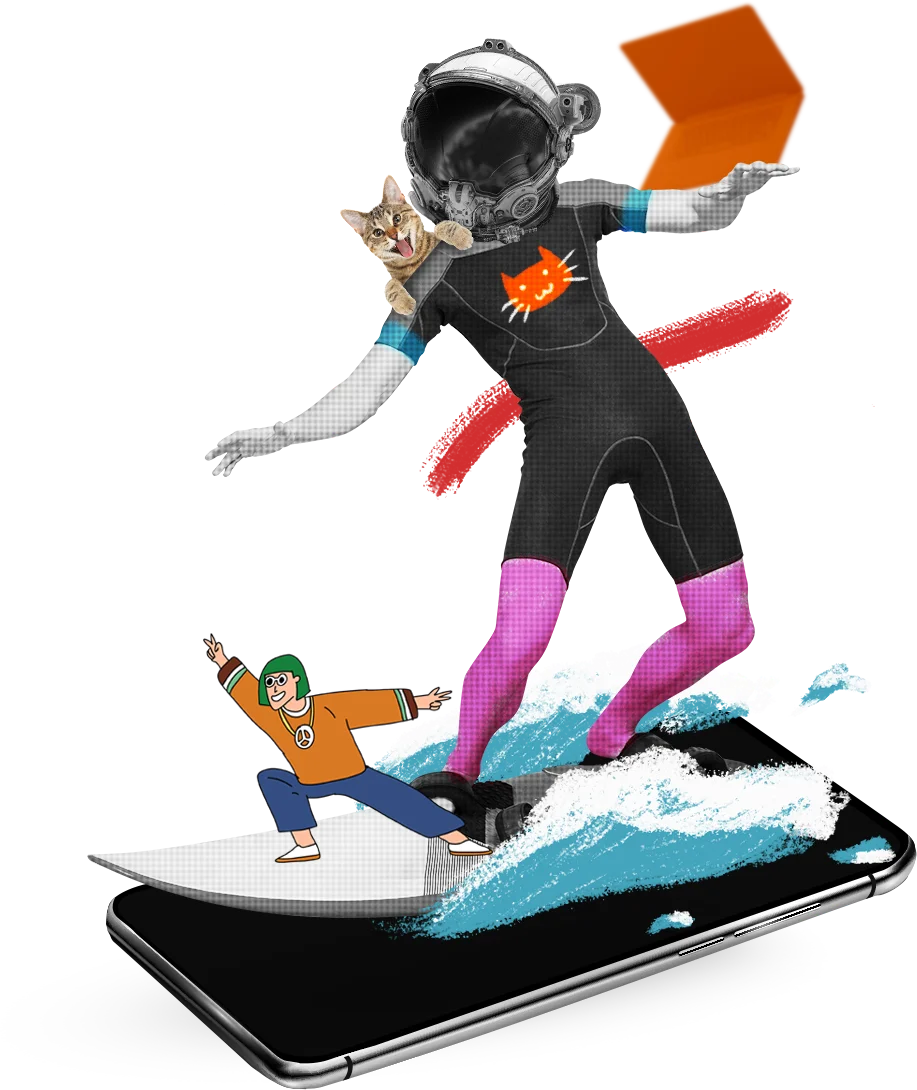
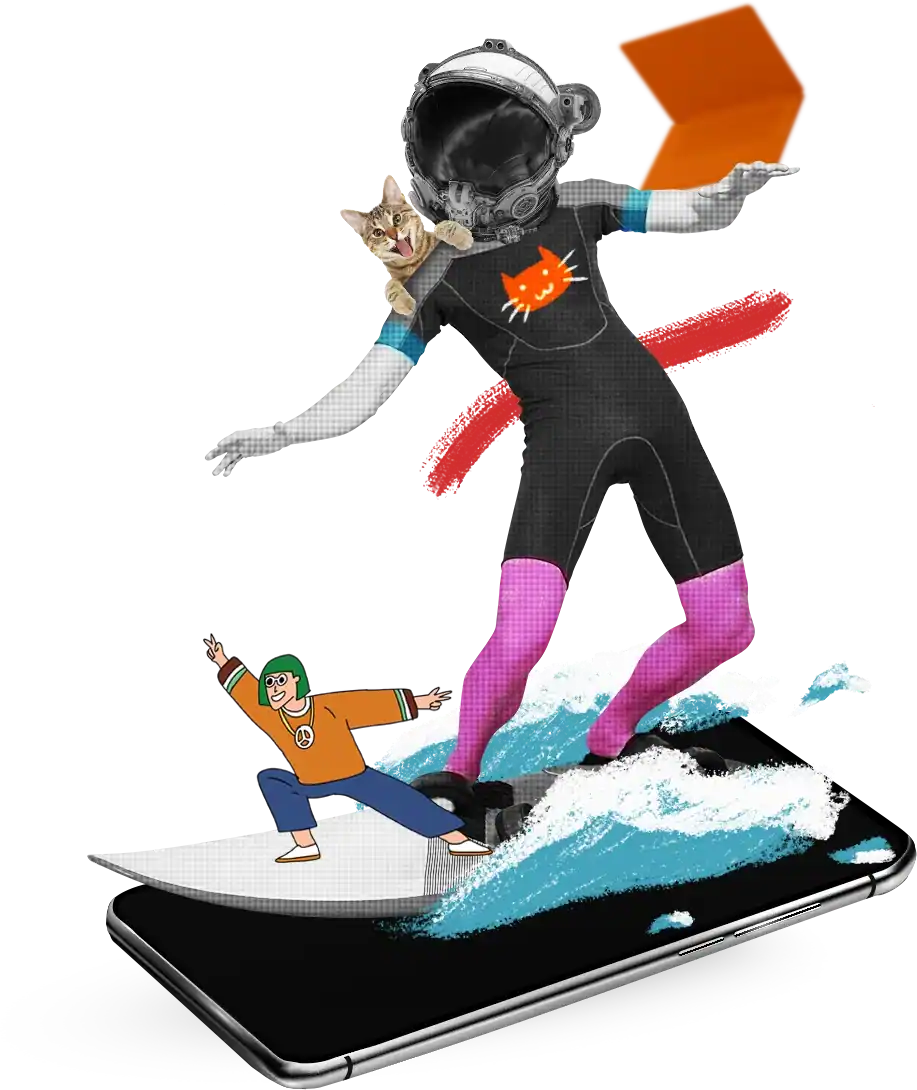
change image to webp

Changed region(s): [[0.5191, 0.7798, 0.5496, 0.811], [0.3053, 0.655, 0.3359, 0.6862]]

diff --git a/pages/index.js b/pages/index.js
@@ -34,7 +34,7 @@ export default function Home() {
         {/* Home Section */}
         <section className={styles.home} id="home"
           style={{
-            backgroundImage: "url(/img/BG_Yellow.png)",
+            backgroundImage: "url(/img/BG_Yellow.webp)",
             backgroundSize: "cover",
           }}>
           <div className={styles.heroBanner}>
@@ -66,7 +66,7 @@ export default function Home() {
 
             {/* Creative Content */}
             <figure className={styles.servicesCard}>
-              <img src="/img/windows_bar_green.png" alt="Creative Content" />
+              <img src="/img/windows_bar_green.webp" alt="Creative Content" />
               <figcaption className={styles.cardContent}>
                 <h2>Creative Content</h2>
                 <p>
@@ -80,7 +80,7 @@ export default function Home() {
 
             {/* Social Media Management */}
             <figure className={styles.servicesCard}>
-              <img src="/img/windows_bar_orange.png" alt="Social Media Management" />
+              <img src="/img/windows_bar_orange.webp" alt="Social Media Management" />
               <figcaption className={styles.cardContent}>
                 <h2>Social Media Management</h2>
                 <p>
@@ -98,7 +98,7 @@ export default function Home() {
 
             {/* Digital Campaign */}
             <figure className={styles.servicesCard}>
-              <img src="/img/windows_bar_red.png" alt="Digital Campaign" />
+              <img src="/img/windows_bar_red.webp" alt="Digital Campaign" />
               <figcaption className={styles.cardContent}>
                 <h2>Digital Campaign</h2>
                 <p>
@@ -112,7 +112,7 @@ export default function Home() {
 
             {/* Media Buying */}
             <figure className={styles.servicesCard}>
-              <img src="/img/windows_bar_blue.png" alt="Media Buying" />
+              <img src="/img/windows_bar_blue.webp" alt="Media Buying" />
               <figcaption className={styles.cardContent}>
                 <h2>Media Buying</h2>
                 <p>

diff --git a/components/Navbar/Navbar.js b/components/Navbar/Navbar.js
@@ -66,7 +66,7 @@ const Navbar = ({ toggleSidebar }) => {
           duration={500}
           name="seruni-logo"
         >
-          <img src="/img/logo_seruni.png" alt="Seruni Logo"/>
+          <img src="/img/logo_seruni.webp" alt="Seruni Logo"/>
         </Link>
         <Link
           activeClass="active"
@@ -108,7 +108,7 @@ const Navbar = ({ toggleSidebar }) => {
           duration={500}
           name="seruni-logo-mobile"
         >
-          <img src="/img/logo_seruni.png" alt="Seruni Logo" />
+          <img src="/img/logo_seruni.webp" alt="Seruni Logo" />
         </Link>
       </nav>
     </header>

diff --git a/data/sliderImages.js b/data/sliderImages.js
@@ -1,14 +1,14 @@
 export const SliderImages = [
   {
     title: 'Case Studies Grab',
-    image: '/img/Case-Studies-Grab.jpg'
+    image: '/img/Case-Studies-Grab.webp'
   },
   {
     title: 'Case Studies Hexos',
-    image: '/img/Case-Studies-Hexos.jpg'
+    image: '/img/Case-Studies-Hexos.webp'
   },
   {
     title: 'Case Studies OSBC NISP',
-    image: '/img/Case-Studies-OCBC-NISP.jpg'
+    image: '/img/Case-Studies-OCBC-NISP.webp'
   }
 ]

diff --git a/components/Footer/Footer.js b/components/Footer/Footer.js
@@ -51,7 +51,7 @@ const Footer = () => {
   return (
     <footer className={styles.footer} id="contact-us">
       <div className={styles.footerImage}>
-        <img src="/img/badge.png" alt="Footer Badge"/>
+        <img src="/img/badge.webp" alt="Footer Badge"/>
       </div>
       <div className={styles.footerForm}>
         <form onSubmit={handleEmailSubmit}>
